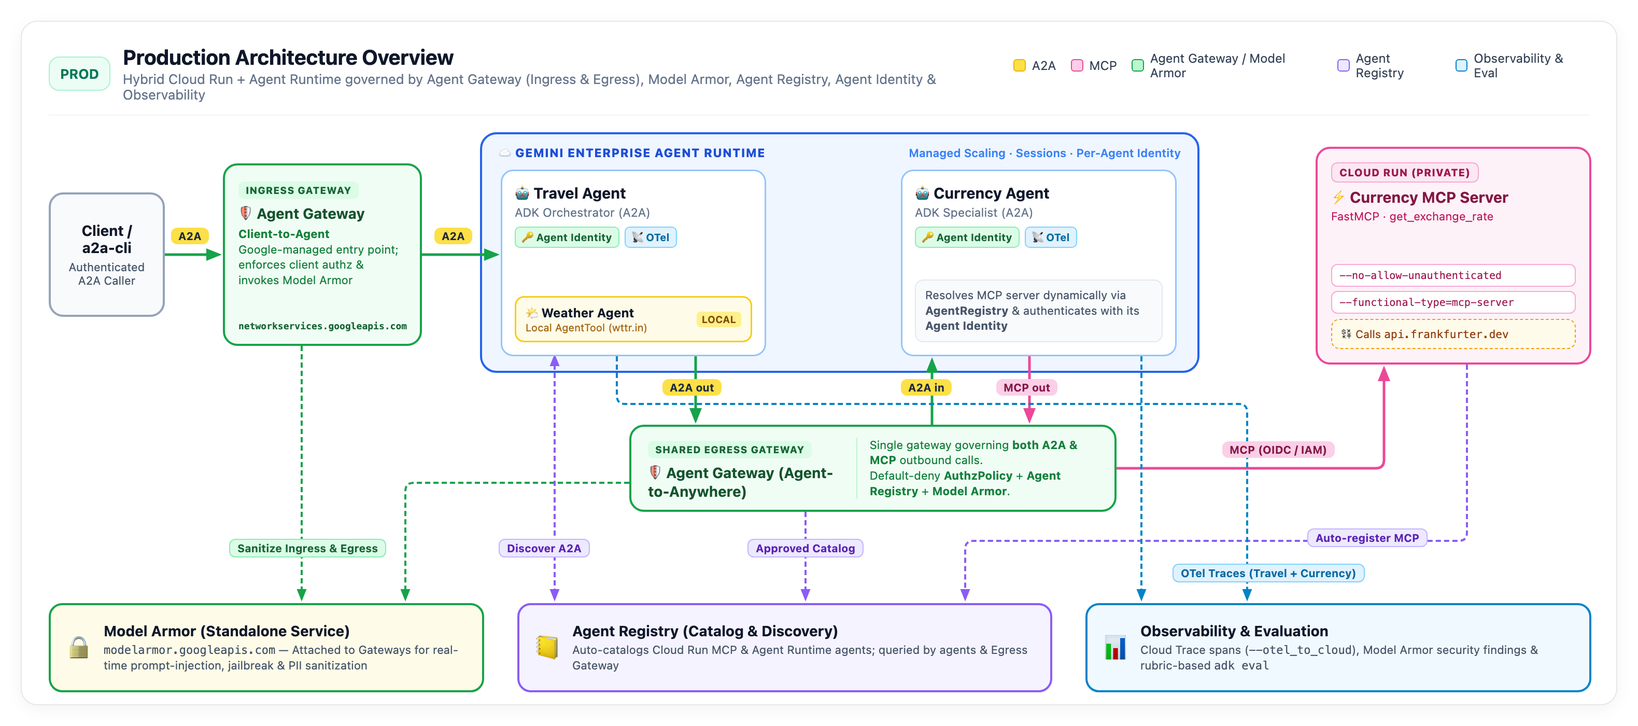
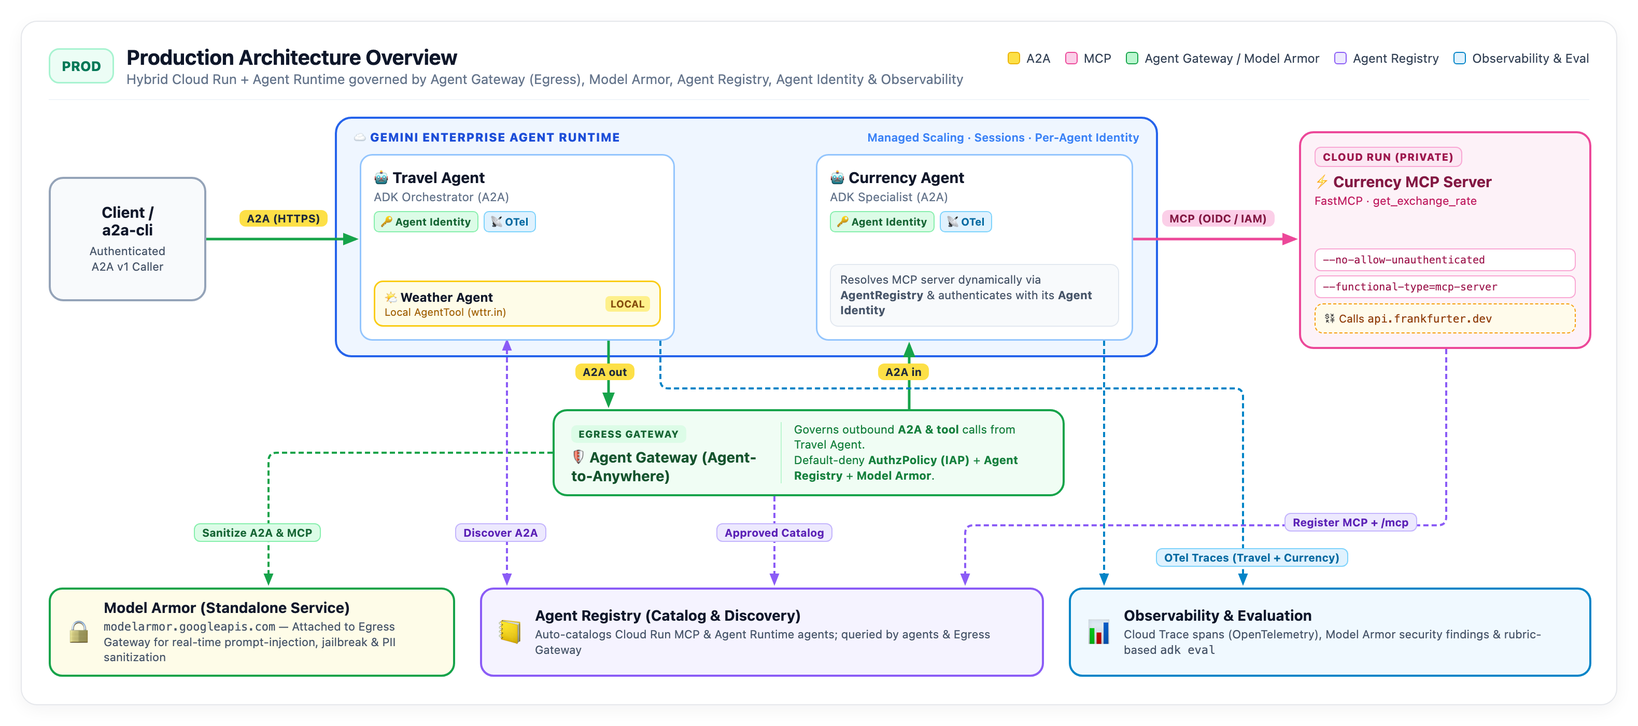
Sync READMEs and architecture diagram with updated productionizing codelab

diff --git a/python/README.md b/python/README.md
@@ -40,11 +40,13 @@ gcloud services enable \
   cloudtrace.googleapis.com
 ```
 
+*(Note: `envsubst` used in Step 4 is pre-installed in Cloud Shell; on macOS install it with `brew install gettext`.)*
+
 ---
 
-## 1. Deploy & Auto-Register the MCP Server on Cloud Run
+## 1. Deploy & Register the MCP Server on Cloud Run
 
-**What this adds:** Locks down `currency-mcp-server` with `--no-allow-unauthenticated` (no public access) and automatically catalogs it in **Agent Registry** using `--functional-type=mcp-server` so downstream agents can discover it without hardcoded URLs.
+**What this adds:** Locks down `currency-mcp-server` with `--no-allow-unauthenticated` (no public access) and auto-registers its Cloud Run runtime reference in **Agent Registry** using `--functional-type=mcp-server`, then registers its callable `/mcp` interface so `AgentRegistry.get_mcp_toolset()` can discover it dynamically.
 
 ```bash
 gcloud beta run deploy currency-mcp-server \
@@ -54,17 +56,17 @@ gcloud beta run deploy currency-mcp-server \
   --functional-type=mcp-server
 ```
 
-Register the service's `/mcp` interface in Agent Registry so `AgentRegistry.get_mcp_toolset()` can resolve the exact endpoint URL, then capture its resource name:
+Register the `/mcp` interface in Agent Registry and capture its resource name (retry `list` after ~5s if indexing is still in progress):
 
 ```bash
-export MCP_SERVER_URL=$(gcloud run services describe currency-mcp-server --region $REGION --format='value(status.url)')
+export MCP_SERVER_URL=$(gcloud run services describe currency-mcp-server --region $REGION --format='value(status.url)')/mcp
 
 gcloud agent-registry services create currency-mcp-server \
   --project=$PROJECT_ID \
   --location=$REGION \
   --display-name="Currency MCP Server" \
   --mcp-server-spec-type=no-spec \
-  --interfaces="url=${MCP_SERVER_URL}/mcp,protocolBinding=jsonrpc"
+  --interfaces="url=${MCP_SERVER_URL},protocolBinding=jsonrpc"
 
 export MCP_SERVER_NAME=$(gcloud agent-registry mcp-servers list \
   --location=$REGION \
@@ -78,12 +80,12 @@ echo "MCP_SERVER_NAME=$MCP_SERVER_NAME"
 ## 2. Deploy `currency_agent` to Agent Runtime with Agent Identity & Observability
 
 **What this adds:**
-- **Agent Runtime**: Managed hosting for ADK agents with built-in scaling and automatic Agent Registry registration.
-- **Agent Identity** (`.agent_engine_config.json` with `"identity_type": "AGENT_IDENTITY"`): Gives `currency_agent` its own unique, managed cryptographic principal instead of sharing a broad service account.
-- **Agent Registry (`AgentRegistry.get_mcp_toolset`)**: Resolves `currency-mcp-server` dynamically and handles authentication automatically.
-- **Observability (`--otel_to_cloud`)**: Exports OpenTelemetry traces to Cloud Trace and Agent Platform Observability.
+- **Agent Runtime**: Managed hosting for ADK agents (`gemini-3.8-flash`) with built-in scaling and automatic Agent Registry registration.
+- **Agent Identity** (`identity_type=AGENT_IDENTITY` in `deploy_a2a.py`): Gives `currency_agent` its own unique, managed cryptographic principal instead of sharing a broad service account.
+- **Agent Registry (`AgentRegistry.get_mcp_toolset`)**: Resolves `currency-mcp-server` dynamically and authenticates to private Cloud Run using OIDC ID tokens (`_cloud_run_auth_headers`).
+- **Observability (`GOOGLE_CLOUD_AGENT_ENGINE_ENABLE_TELEMETRY=true`)**: Exports OpenTelemetry traces to Cloud Trace and Agent Platform Observability.
 
-Deploy `currency_agent` as a native **A2A** agent on Agent Runtime (with `AGENT_IDENTITY` and OpenTelemetry enabled):
+Deploy `currency_agent` as a native **A2A** agent on Agent Runtime:
 
 ```bash
 uv run python deploy_a2a.py currency_agent \
@@ -93,18 +95,9 @@ uv run python deploy_a2a.py currency_agent \
   --env MCP_SERVER_NAME=$MCP_SERVER_NAME
 ```
 
-Capture `currency_agent`'s Agent Engine ID and managed **Agent Identity**, then grant least-privilege permissions (`roles/run.invoker` on `currency-mcp-server` and `roles/agentregistry.viewer`):
+Run the `export CURRENCY_AGENT_ENGINE_ID=...`, `export CURRENCY_AGENT_PRINCIPAL=...`, and `export CURRENCY_AGENT_CARD_URL=...` commands printed at the end of `deploy_a2a.py`, then grant least-privilege permissions and capture `CURRENCY_AGENT_NAME` (retry `agents list` after ~15s if indexing is still in progress):
 
 ```bash
-read -r CURRENCY_AGENT_ENGINE_ID CURRENCY_AGENT_IDENTITY < <(
-  curl -s \
-    -H "Authorization: Bearer $(gcloud auth print-access-token)" \
-    "https://${REGION}-aiplatform.googleapis.com/v1beta1/projects/${PROJECT_ID}/locations/${REGION}/reasoningEngines" \
-  | jq -r '[.reasoningEngines[] | select(.displayName=="currency-agent")] | sort_by(.createTime) | last | "\(.name | split("/") | last) \(.spec.effectiveIdentity)"'
-)
-export CURRENCY_AGENT_ENGINE_ID
-export CURRENCY_AGENT_PRINCIPAL="principal://${CURRENCY_AGENT_IDENTITY}"
-
 gcloud run services add-iam-policy-binding currency-mcp-server \
   --region=$REGION \
   --member="$CURRENCY_AGENT_PRINCIPAL" \
@@ -113,17 +106,7 @@ gcloud run services add-iam-policy-binding currency-mcp-server \
 gcloud projects add-iam-policy-binding $PROJECT_ID \
   --member="$CURRENCY_AGENT_PRINCIPAL" \
   --role="roles/agentregistry.viewer"
-```
 
----
-
-## 3. Deploy `travel_agent` with Dynamic A2A Discovery
-
-**What this adds:** `travel_agent` looks up `currency_agent` dynamically from **Agent Registry** via `registry.get_remote_a2a_agent(...)`, runs under its own separate **Agent Identity**, and exports distributed traces linked across both agents.
-
-Look up `currency_agent`'s Agent Registry resource name:
-
-```bash
 export CURRENCY_AGENT_NAME=$(gcloud agent-registry agents list \
   --location=$REGION \
   --filter="displayName=currency-agent" \
@@ -132,6 +115,12 @@ export CURRENCY_AGENT_NAME=$(gcloud agent-registry agents list \
   --format="value(name)")
 echo "CURRENCY_AGENT_NAME=$CURRENCY_AGENT_NAME"
 ```
+
+---
+
+## 3. Deploy `travel_agent` with Dynamic A2A Discovery & Resource-Level IAM
+
+**What this adds:** `travel_agent` looks up `currency_agent` dynamically from **Agent Registry** via `registry.get_remote_a2a_agent(...)`, runs under its own separate **Agent Identity**, and receives least-privilege **resource-level** IAM on `currency-agent` (not project-wide `roles/aiplatform.user`).
 
 Deploy `travel_agent` as a native **A2A** agent on Agent Runtime:
 
@@ -143,82 +132,58 @@ uv run python deploy_a2a.py travel_agent \
   --env CURRENCY_AGENT_NAME=$CURRENCY_AGENT_NAME
 ```
 
-Grant `travel_agent`'s **Agent Identity** permission to query Agent Registry and invoke `currency_agent`:
+Run the `export TRAVEL_AGENT_ENGINE_ID=...`, `export TRAVEL_AGENT_PRINCIPAL=...`, and `export TRAVEL_AGENT_CARD_URL=...` commands printed at the end of `deploy_a2a.py`, then grant `travel_agent`'s **Agent Identity** permission to query Agent Registry and invoke `currency-agent`:
 
 ```bash
-read -r TRAVEL_AGENT_ENGINE_ID TRAVEL_AGENT_IDENTITY < <(
-  curl -s \
-    -H "Authorization: Bearer $(gcloud auth print-access-token)" \
-    "https://${REGION}-aiplatform.googleapis.com/v1beta1/projects/${PROJECT_ID}/locations/${REGION}/reasoningEngines" \
-  | jq -r '[.reasoningEngines[] | select(.displayName=="travel-agent")] | sort_by(.createTime) | last | "\(.name | split("/") | last) \(.spec.effectiveIdentity)"'
-)
-export TRAVEL_AGENT_ENGINE_ID
-export TRAVEL_AGENT_PRINCIPAL="principal://${TRAVEL_AGENT_IDENTITY}"
-
 gcloud projects add-iam-policy-binding $PROJECT_ID \
   --member="$TRAVEL_AGENT_PRINCIPAL" \
   --role="roles/agentregistry.viewer"
 
-gcloud projects add-iam-policy-binding $PROJECT_ID \
-  --member="$TRAVEL_AGENT_PRINCIPAL" \
-  --role="roles/aiplatform.user"
+uv run python deploy_a2a.py \
+  --project=$PROJECT_ID \
+  --region=$REGION \
+  --agent-engine-id=$CURRENCY_AGENT_ENGINE_ID \
+  --grant-invoker="$TRAVEL_AGENT_PRINCIPAL"
 ```
 
 ---
 
-## 4. Govern Traffic with Agent Gateway & Model Armor
+## 4. Govern Outbound Traffic with Agent Gateway & Model Armor
 
 **What this adds:**
-- **Agent Gateway**: Central policy enforcement point for both **Client-to-Agent (ingress)** and **Agent-to-Anywhere (egress)** traffic. Egress gateways default to **deny-all** until an explicit `AuthzPolicy` allows approved traffic.
-- **Model Armor**: Inspects and sanitizes prompts and tool responses in flight to block prompt injections, jailbreaks, and PII leakage.
+- **Agent Gateway (`AGENT_TO_ANYWHERE` egress)**: Central outbound policy enforcement point that defaults to **deny-all** until an explicit `AuthzPolicy` (IAP in `DRY_RUN` audit mode) allows approved traffic.
+- **Model Armor (`CONTENT_AUTHZ`)**: Inspects outbound A2A v1 `Send Message` payloads in flight to block prompt injections, jailbreaks, and PII leakage.
 
-Import the gateway YAML templates from [`policies/`](../policies/):
+Import the egress gateway and IAP authorization policy from [`policies/`](../policies/), then bind the gateway to `travel-agent`:
 
 ```bash
-# 1. Client-to-Agent (ingress) gateway
-gcloud network-services agent-gateways import travel-agent-ingress-gateway \
-  --source=../policies/agent-gateway-ingress.yaml \
-  --location=$REGION
-
-# 2. Agent-to-Anywhere (egress) gateway wired to Agent Registry
-sed "s/\${PROJECT_ID}/$PROJECT_ID/g; s/\${REGION}/$REGION/g" \
-  ../policies/agent-gateway-egress.yaml > /tmp/agent-gateway-egress.yaml
+# 1. Agent-to-Anywhere (egress) gateway wired to Agent Registry
+envsubst < ../policies/agent-gateway-egress.yaml > /tmp/agent-gateway-egress.yaml
 gcloud network-services agent-gateways import travel-agent-egress-gateway \
   --source=/tmp/agent-gateway-egress.yaml \
   --location=$REGION
 
-# 3. Attach an IAP AuthzExtension (DRY_RUN audit mode) + AuthzPolicy to the egress gateway
-#    (Agent-to-Anywhere gateways default to deny-all until an AuthzPolicy is attached)
-gcloud beta service-extensions authz-extensions import travel-agent-iap-authz-ext \
+# 2. Attach an IAP AuthzExtension (DRY_RUN audit mode) + AuthzPolicy to the egress gateway
+gcloud service-extensions authz-extensions import travel-agent-iap-authz-ext \
   --source=../policies/iap-authz-extension.yaml \
   --location=$REGION
 
-sed "s/\${PROJECT_ID}/$PROJECT_ID/g; s/\${REGION}/$REGION/g" \
-  ../policies/authz-policy.yaml > /tmp/authz-policy.yaml
+envsubst < ../policies/authz-policy.yaml > /tmp/authz-policy.yaml
 gcloud network-security authz-policies import travel-agent-egress-authz \
   --source=/tmp/authz-policy.yaml \
   --location=$REGION
-```
 
-Create a **Model Armor** template (with prompt-injection, jailbreak, PII/SDP, and malicious URI filtering enabled):
-
-```bash
-gcloud config set api_endpoint_overrides/modelarmor \
-  "https://modelarmor.${REGION}.rep.googleapis.com/"
-
-gcloud model-armor templates create travel-agent-guardrails \
+# 3. Bind the egress gateway to travel-agent (waits ~3-7 min for LRO completion)
+uv run python deploy_a2a.py \
   --project=$PROJECT_ID \
-  --location=$REGION \
-  --pi-and-jailbreak-filter-settings-enforcement=enabled \
-  --pi-and-jailbreak-filter-settings-confidence-level=medium-and-above \
-  --basic-config-filter-enforcement=enabled \
-  --malicious-uri-filter-settings-enforcement=enabled
+  --region=$REGION \
+  --agent-engine-id=$TRAVEL_AGENT_ENGINE_ID \
+  --egress-gateway=travel-agent-egress-gateway
 ```
 
-Grant the Agent Gateway and Agent Runtime service agents permission to invoke Model Armor:
+Grant the Agent Gateway Service Extensions service agent permission to invoke Model Armor, create the `travel-agent-guardrails` template, and attach it to `travel-agent-egress-gateway`:
 
 ```bash
-# Agent Gateway service agent (egress / Service Extensions)
 gcloud projects add-iam-policy-binding $PROJECT_ID \
   --member="serviceAccount:service-${PROJECT_NUMBER}@gcp-sa-dep.iam.gserviceaccount.com" \
   --role="roles/modelarmor.calloutUser"
@@ -229,26 +194,23 @@ gcloud projects add-iam-policy-binding $PROJECT_ID \
   --member="serviceAccount:service-${PROJECT_NUMBER}@gcp-sa-dep.iam.gserviceaccount.com" \
   --role="roles/modelarmor.user"
 
-# Agent Runtime service agent (ingress)
-gcloud projects add-iam-policy-binding $PROJECT_ID \
-  --member="serviceAccount:service-${PROJECT_NUMBER}@gcp-sa-aiplatform-re.iam.gserviceaccount.com" \
-  --role="roles/modelarmor.calloutUser"
-gcloud projects add-iam-policy-binding $PROJECT_ID \
-  --member="serviceAccount:service-${PROJECT_NUMBER}@gcp-sa-aiplatform-re.iam.gserviceaccount.com" \
-  --role="roles/modelarmor.user"
-```
+gcloud config set api_endpoint_overrides/modelarmor \
+  "https://modelarmor.${REGION}.rep.googleapis.com/"
 
-Attach `travel-agent-guardrails` to `travel-agent-egress-gateway` via a **Service Extensions `AuthzExtension`** and **Network Security `AuthzPolicy`** (`policyProfile: CONTENT_AUTHZ`, inspecting outbound A2A v1 `Send Message` and MCP `tools/call` payloads):
+gcloud model-armor templates create travel-agent-guardrails \
+  --project=$PROJECT_ID \
+  --location=$REGION \
+  --pi-and-jailbreak-filter-settings-enforcement=enabled \
+  --pi-and-jailbreak-filter-settings-confidence-level=medium-and-above \
+  --basic-config-filter-enforcement=enabled \
+  --malicious-uri-filter-settings-enforcement=enabled
 
-```bash
-sed "s/\${PROJECT_ID}/$PROJECT_ID/g; s/\${REGION}/$REGION/g" \
-  ../policies/model-armor-extension.yaml > /tmp/model-armor-extension.yaml
+envsubst < ../policies/model-armor-extension.yaml > /tmp/model-armor-extension.yaml
 gcloud service-extensions authz-extensions import travel-agent-model-armor-ext \
   --location=$REGION \
   --source=/tmp/model-armor-extension.yaml
 
-sed "s/\${PROJECT_ID}/$PROJECT_ID/g; s/\${REGION}/$REGION/g" \
-  ../policies/model-armor-policy.yaml > /tmp/model-armor-policy.yaml
+envsubst < ../policies/model-armor-policy.yaml > /tmp/model-armor-policy.yaml
 gcloud network-security authz-policies import travel-agent-model-armor-policy \
   --location=$REGION \
   --source=/tmp/model-armor-policy.yaml
@@ -257,20 +219,13 @@ gcloud network-security authz-policies import travel-agent-model-armor-policy \
 Test `travel-agent` end-to-end with `a2a-cli`:
 
 ```bash
-export TRAVEL_AGENT_CARD_URL="https://${REGION}-aiplatform.googleapis.com/v1beta1/projects/${PROJECT_ID}/locations/${REGION}/reasoningEngines/${TRAVEL_AGENT_ENGINE_ID}/a2a/v1/card"
-
-# Inspect the A2A Agent Card
-a2a card get \
-  -a "$TRAVEL_AGENT_CARD_URL" \
-  --auth "Bearer $(gcloud auth print-access-token)"
-
 # Benign prompt (succeeds)
 a2a send \
   -a "$TRAVEL_AGENT_CARD_URL" \
   --auth "Bearer $(gcloud auth print-access-token)" \
   "I am planning a trip to Tokyo. What is the weather like and how much is 500 USD in JPY?"
 
-# Prompt injection forwarded over A2A v1 (blocked by Model Armor on travel-agent-egress-gateway)
+# Prompt injection forwarded over A2A v1 (blocked by Model Armor with 403 Security Policy Violation)
 a2a send \
   -a "$TRAVEL_AGENT_CARD_URL" \
   --auth "Bearer $(gcloud auth print-access-token)" \
@@ -285,11 +240,15 @@ a2a send \
 **What this adds:** Because `deploy_a2a.py` enables OpenTelemetry (`GOOGLE_CLOUD_AGENT_ENGINE_ENABLE_TELEMETRY=true`), every request generates an end-to-end trace visible in **Gemini Platform → Agents → Deployments → `travel-agent` → Traces** (and **Cloud Trace → Trace explorer**)—showing `travel_agent` LLM calls, in-process `weather_agent` execution, remote A2A delegation to `currency_agent`, and the MCP tool call to `currency_mcp_server`.
 
 ### Automated Evaluation (`adk eval`)
-**What this adds:** Prevents silent regressions when you change prompts, models, or tools by verifying both **tool trajectory** (did `travel_agent` call `weather_agent` and `currency_agent`?) and **response quality**.
+**What this adds:** Prevents silent regressions when you change prompts, models, or tools by verifying both **tool trajectory** (`weather_agent` + `currency_agent`) and **response quality**.
 
-With `CURRENCY_AGENT_NAME` set (so `travel_agent` resolves your deployed `currency-agent` from Agent Registry automatically — no local servers needed), run the evaluation suite in [`evals/`](evals/):
+Export the Vertex AI environment variables (using `global` for `gemini-3.8-flash` while `REGION` stays `europe-west1` for Agent Registry) and run the evaluation suite in [`evals/`](evals/):
 
 ```bash
+export GOOGLE_GENAI_USE_VERTEXAI=true
+export GOOGLE_CLOUD_PROJECT=$PROJECT_ID
+export GOOGLE_CLOUD_LOCATION=global
+
 uv run adk eval \
   travel_agent \
   evals/travel_agent.evalset.json \
@@ -297,4 +256,26 @@ uv run adk eval \
   --print_detailed_results
 ```
 
-You can also run offline, online, and simulated evaluations directly on your deployed Agent Runtime instance in the **Agent Platform Evaluation** console using trajectory metrics (`trajectory_any_order_match`, `trajectory_precision`, `trajectory_recall`).
+---
+
+## 🧹 Clean Up
+
+Delete resources in dependency order (Agent Runtime instances first so the egress gateway binding is released):
+
+```bash
+uv run python deploy_a2a.py --project=$PROJECT_ID --region=$REGION --agent-engine-id=$TRAVEL_AGENT_ENGINE_ID --delete
+uv run python deploy_a2a.py --project=$PROJECT_ID --region=$REGION --agent-engine-id=$CURRENCY_AGENT_ENGINE_ID --delete
+
+gcloud network-security authz-policies delete travel-agent-model-armor-policy --location=$REGION --quiet
+gcloud network-security authz-policies delete travel-agent-egress-authz --location=$REGION --quiet
+gcloud service-extensions authz-extensions delete travel-agent-model-armor-ext --location=$REGION --quiet
+gcloud service-extensions authz-extensions delete travel-agent-iap-authz-ext --location=$REGION --quiet
+gcloud network-services agent-gateways delete travel-agent-egress-gateway --location=$REGION --quiet
+
+gcloud model-armor templates delete travel-agent-guardrails --location=$REGION --quiet
+gcloud config unset api_endpoint_overrides/modelarmor
+
+gcloud agent-registry services delete currency-mcp-server --location=$REGION --quiet
+gcloud run services delete currency-mcp-server --region=$REGION --quiet
+rm -f /tmp/agent-gateway-egress.yaml /tmp/authz-policy.yaml /tmp/model-armor-extension.yaml /tmp/model-armor-policy.yaml
+```

diff --git a/README.md b/README.md
@@ -22,11 +22,11 @@ In Part 1 (`main`), all three services run as public `--allow-unauthenticated` C
 
 | Capability | Problem in Part 1 (`main`) | What Part 2 (`production`) Adds |
 | :--- | :--- | :--- |
-| **Agent Runtime** | Agents run as DIY containers with manual scaling, sessions, and boilerplate | Hosts `currency_agent` and `travel_agent` on managed **Agent Runtime**, while keeping `currency_mcp_server` on **Cloud Run** (hybrid architecture) |
-| **Agent Registry** | Hardcoded `MCP_SERVER_URL` and `CURRENCY_AGENT_URL` env vars break when URLs change and create shadow AI | Auto-registers the Cloud Run MCP server (`--functional-type=mcp-server`) and Agent Runtime agents; agents resolve tools & peers dynamically via ADK's `AgentRegistry` client |
-| **Agent Identity** | Public `--allow-unauthenticated` endpoints or shared Compute Engine service accounts | Provisions a unique managed **Agent Identity** (`AGENT_IDENTITY`) per deployed agent, enforcing least-privilege hop-by-hop IAM (`roles/run.invoker`, `roles/agentregistry.viewer`) and per-agent audit logs |
-| **Agent Gateway & Model Armor** | No centralized traffic governance, prompt-injection defense, or PII redaction | Places **Agent Gateway** (`CLIENT_TO_AGENT` ingress & `AGENT_TO_ANYWHERE` egress with default-deny `AuthzPolicy`) and **Model Armor** in front to block prompt injections and sensitive data leaks |
-| **Observability** | Local console logs only; blind to multi-hop latency, tool failures, and token spend | Enables OpenTelemetry tracing (`--otel_to_cloud`) to inspect full distributed traces across `travel_agent` → `currency_agent` → `currency_mcp_server` in Cloud Trace & Agent Platform Observability |
+| **Agent Runtime** | Agents run as DIY containers with manual scaling, sessions, and boilerplate | Hosts `currency_agent` and `travel_agent` (`gemini-3.8-flash`) on managed **Agent Runtime**, while keeping `currency_mcp_server` on **Cloud Run** (hybrid architecture) |
+| **Agent Registry** | Hardcoded `MCP_SERVER_URL` and `CURRENCY_AGENT_URL` env vars break when URLs change and create shadow AI | Auto-registers the Cloud Run MCP server (`--functional-type=mcp-server`) and Agent Runtime agents; registers the `/mcp` interface and resolves tools & peers dynamically via ADK's `AgentRegistry` client |
+| **Agent Identity** | Public `--allow-unauthenticated` endpoints or shared Compute Engine service accounts | Provisions a unique managed **Agent Identity** (`AGENT_IDENTITY`) per deployed agent, enforcing least-privilege resource-level IAM (`roles/run.invoker` on Cloud Run, resource-level `roles/aiplatform.user` on `currency-agent`, and `roles/agentregistry.viewer`) |
+| **Agent Gateway & Model Armor** | No centralized outbound traffic governance, prompt-injection defense, or PII redaction | Places an **Agent Gateway** (`AGENT_TO_ANYWHERE` egress with default-deny IAP `AuthzPolicy`) and **Model Armor** (`CONTENT_AUTHZ`) in the outbound path to govern calls and block prompt injections and sensitive data leaks |
+| **Observability** | Local console logs only; blind to multi-hop latency, tool failures, and token spend | Enables OpenTelemetry tracing (`GOOGLE_CLOUD_AGENT_ENGINE_ENABLE_TELEMETRY=true`) to inspect full distributed traces across `travel_agent` → `currency_agent` → `currency_mcp_server` in Cloud Trace & Agent Platform Observability |
 | **Evaluation** | Manual one-off testing via `a2a-cli`; prompt or model changes can silently regress | Adds an automated ADK evaluation suite (`python/evals/`) that verifies tool-use trajectory (`weather_agent` + `currency_agent`) and response quality via `adk eval` and Agent Platform Evaluation |
 
 ---
@@ -37,22 +37,22 @@ In Part 1 (`main`), all three services run as public `--allow-unauthenticated` C
 +-----------------------------------------------------------------------------------+
 |                            Client (a2a-cli / App)                                 |
 +------------------------------------------+----------------------------------------+
-                                           | Authenticated A2A (HTTPS)
-                                           v
-+-----------------------------------------------------------------------------------+
-|             Agent Gateway (CLIENT_TO_AGENT Ingress) + Model Armor                 |
-|  - Prompt injection & jailbreak defense, PII/SDP sanitization, ingress authz      |
-+------------------------------------------+----------------------------------------+
-                                           |
+                                           | Authenticated A2A v1 (HTTPS)
                                            v
 +-----------------------------------------------------------------------------------+
 |  Agent Runtime: travel_agent  (Identity: AGENT_IDENTITY, OTel -> Cloud Trace)     |
 |  - Resolves currency_agent dynamically from Agent Registry                        |
 |                                                                                   |
 |    +--> [Local AgentTool] weather_agent (in-process)                              |
-|    +--> [Remote A2A] currency_agent (via Agent Registry + Agent Gateway Egress)   |
+|    +--> [Remote A2A] currency_agent (via Agent Registry + Egress Agent Gateway)   |
 +------------------------------------------+----------------------------------------+
-                                           | Authenticated A2A (via Agent Gateway)
+                                           |
+                                           v
++-----------------------------------------------------------------------------------+
+|       Agent Gateway (AGENT_TO_ANYWHERE Egress) + IAP + Model Armor                |
+|  - Default-deny AuthzPolicy (IAP), Agent Registry catalog, prompt-injection & PII |
++------------------------------------------+----------------------------------------+
+                                           | Authenticated A2A v1 (mTLS / Agent Identity)
                                            v
 +-----------------------------------------------------------------------------------+
 |  Agent Runtime: currency_agent  (Identity: AGENT_IDENTITY, OTel -> Cloud Trace)   |
@@ -72,15 +72,15 @@ In Part 1 (`main`), all three services run as public `--allow-unauthenticated` C
 
 Run `git diff main..production --stat` to see the exact delta from Part 1:
 
-- **`python/currency_agent/agent.py` & `python/travel_agent/agent.py`**: Resolve MCP tools and remote A2A agents via `google.adk.integrations.agent_registry.agent_registry.AgentRegistry` when `MCP_SERVER_NAME` / `CURRENCY_AGENT_NAME` are set (keeping automatic fallback to `localhost` URLs for local development).
-- **`python/currency_agent/.agent_engine_config.json` & `python/travel_agent/.agent_engine_config.json`**: Enable managed `AGENT_IDENTITY` on Agent Runtime.
-- **`policies/`**: Declarative YAML templates for `AgentGateway` (ingress & egress) and `AuthzPolicy`.
-- **`python/evals/`**: Automated ADK evaluation set (`travel_agent.evalset.json`) and criteria config (`test_config.json`).
+- **`python/deploy_a2a.py` & `python/a2a_runtime.py`**: Deploy, update, bind Agent Gateways (`--egress-gateway`), grant resource-level A2A IAM (`--grant-invoker`), and delete (`--delete`) native A2A ADK agents on Agent Runtime with `AGENT_IDENTITY` and OpenTelemetry enabled.
+- **`python/currency_agent/agent.py` & `python/travel_agent/agent.py`**: Resolve MCP tools and remote A2A agents via `google.adk.integrations.agent_registry.agent_registry.AgentRegistry` when `MCP_SERVER_NAME` / `CURRENCY_AGENT_NAME` are set (keeping automatic fallback to `localhost` URLs for local development), using `gemini-3.8-flash`.
+- **`policies/`**: Declarative YAML templates for `AgentGateway` (egress), IAP `AuthzExtension` / `AuthzPolicy` (`REQUEST_AUTHZ`), and Model Armor `AuthzExtension` / `AuthzPolicy` (`CONTENT_AUTHZ`).
+- **`python/evals/`**: Automated ADK evaluation set (`travel_agent.evalset.json`) and rubric criteria config (`test_config.json`).
 
 ---
 
 ## 🚀 Getting Started
 
 - **[Part 2 Codelab: Productionizing MCP, A2A & ADK on Google Cloud](https://codelabs.developers.google.com/productionizing-mcp-a2a-adk)** — Interactive step-by-step Google Codelab walkthrough.
-- **[Python Productionizing Guide (`python/README.md`)](python/README.md)** — Full step-by-step commands for local dev, Cloud Run + Agent Runtime deployment, Agent Registry, Agent Identity, Agent Gateway + Model Armor, Observability, and Evaluation.
+- **[Python Productionizing Guide (`python/README.md`)](python/README.md)** — Full step-by-step commands for Cloud Run + Agent Runtime deployment, Agent Registry, Agent Identity, Agent Gateway + Model Armor, Observability, Evaluation, and Clean Up.
 - **Part 1 (Getting Started)**: Switch to the [`main`](https://github.com/meteatamel/getting-started-mcp-a2a-adk/tree/main) branch.
